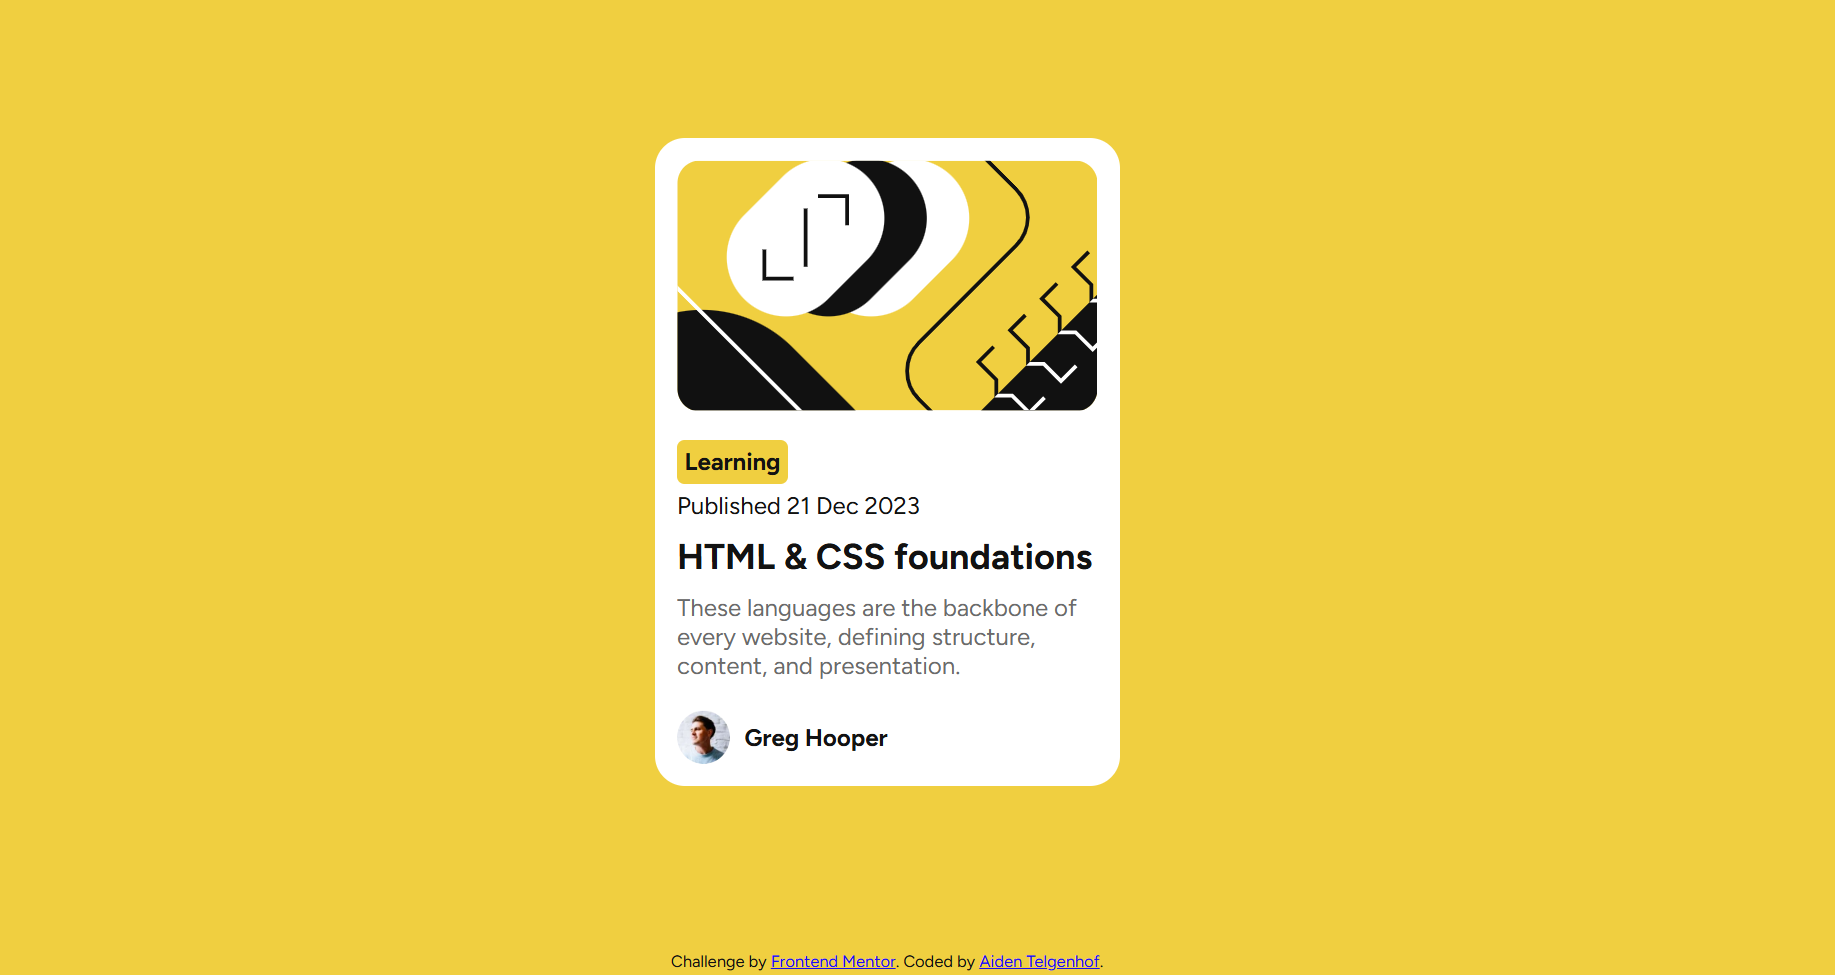
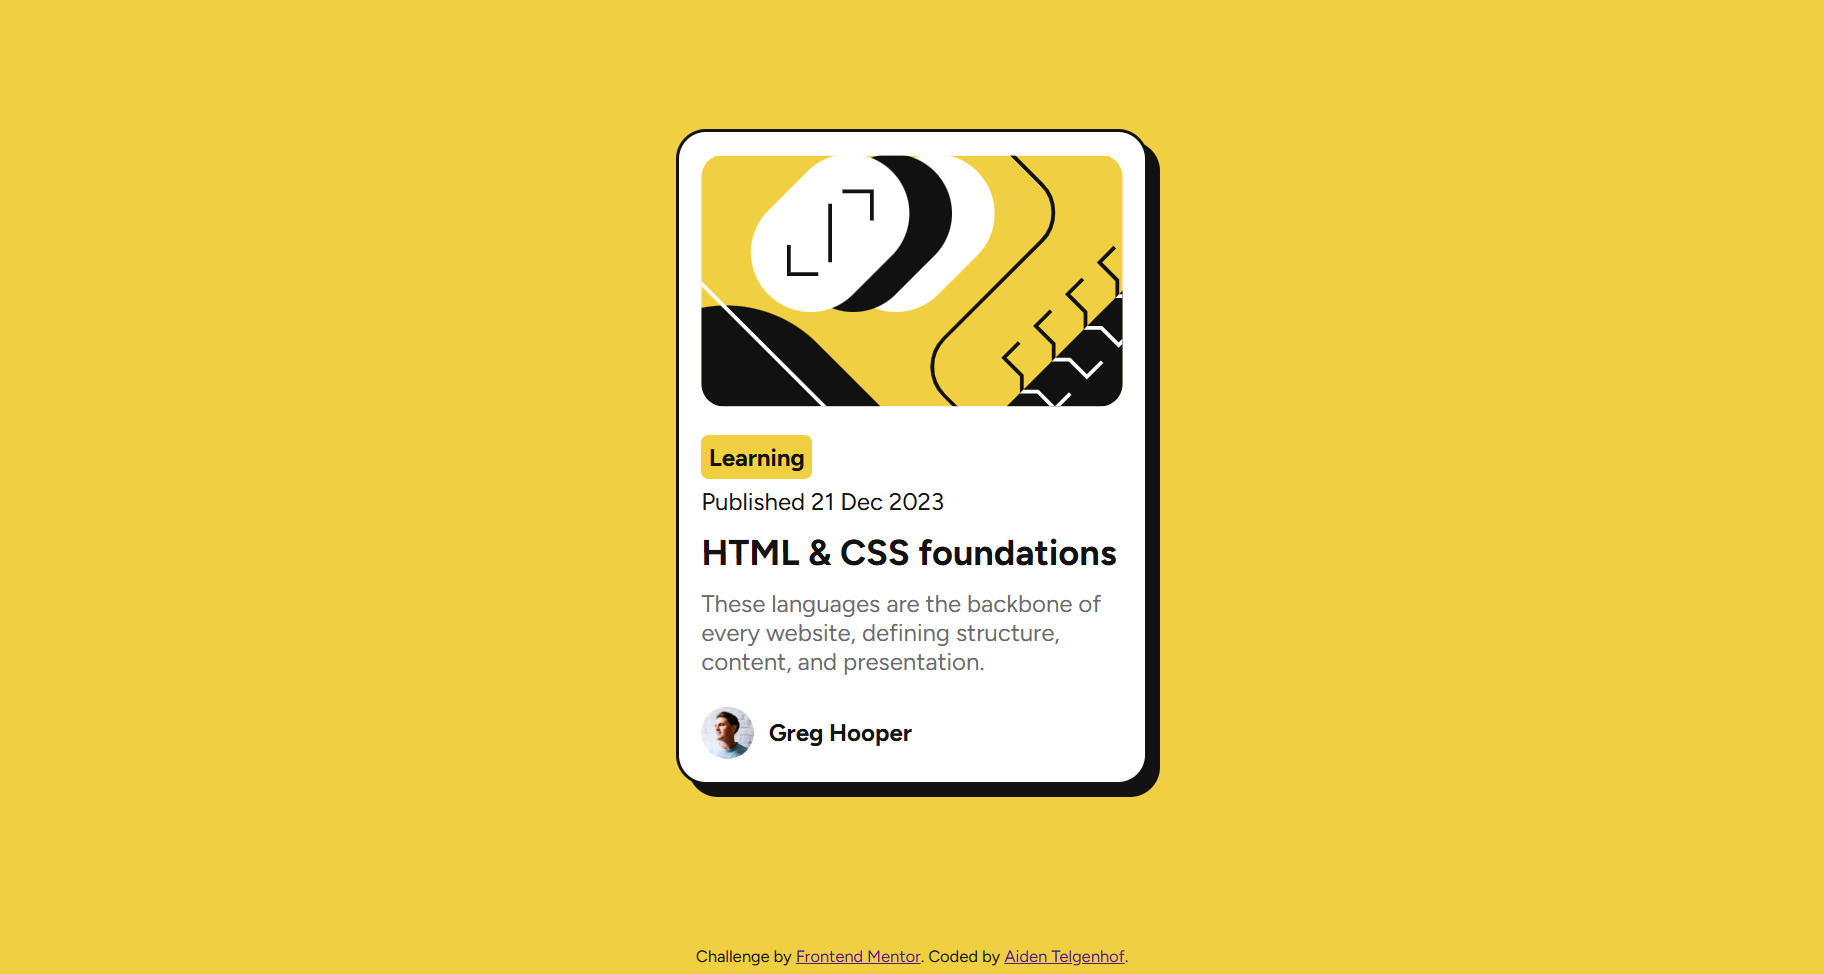
fixed title and updated screenshot in readme for new page

Changed region(s): [[0.3438, 0.1232, 0.6562, 0.8316], [0.375, 0.9548, 0.625, 1.0]]

diff --git a/index.css b/index.css
@@ -31,7 +31,7 @@ main {
 
 .article {
     background-color: white;
-    max-width: 310px;
+    max-width: 315px;
     border-radius: 20px;
     box-shadow: 8px 8px;
     border: 2px solid; 
